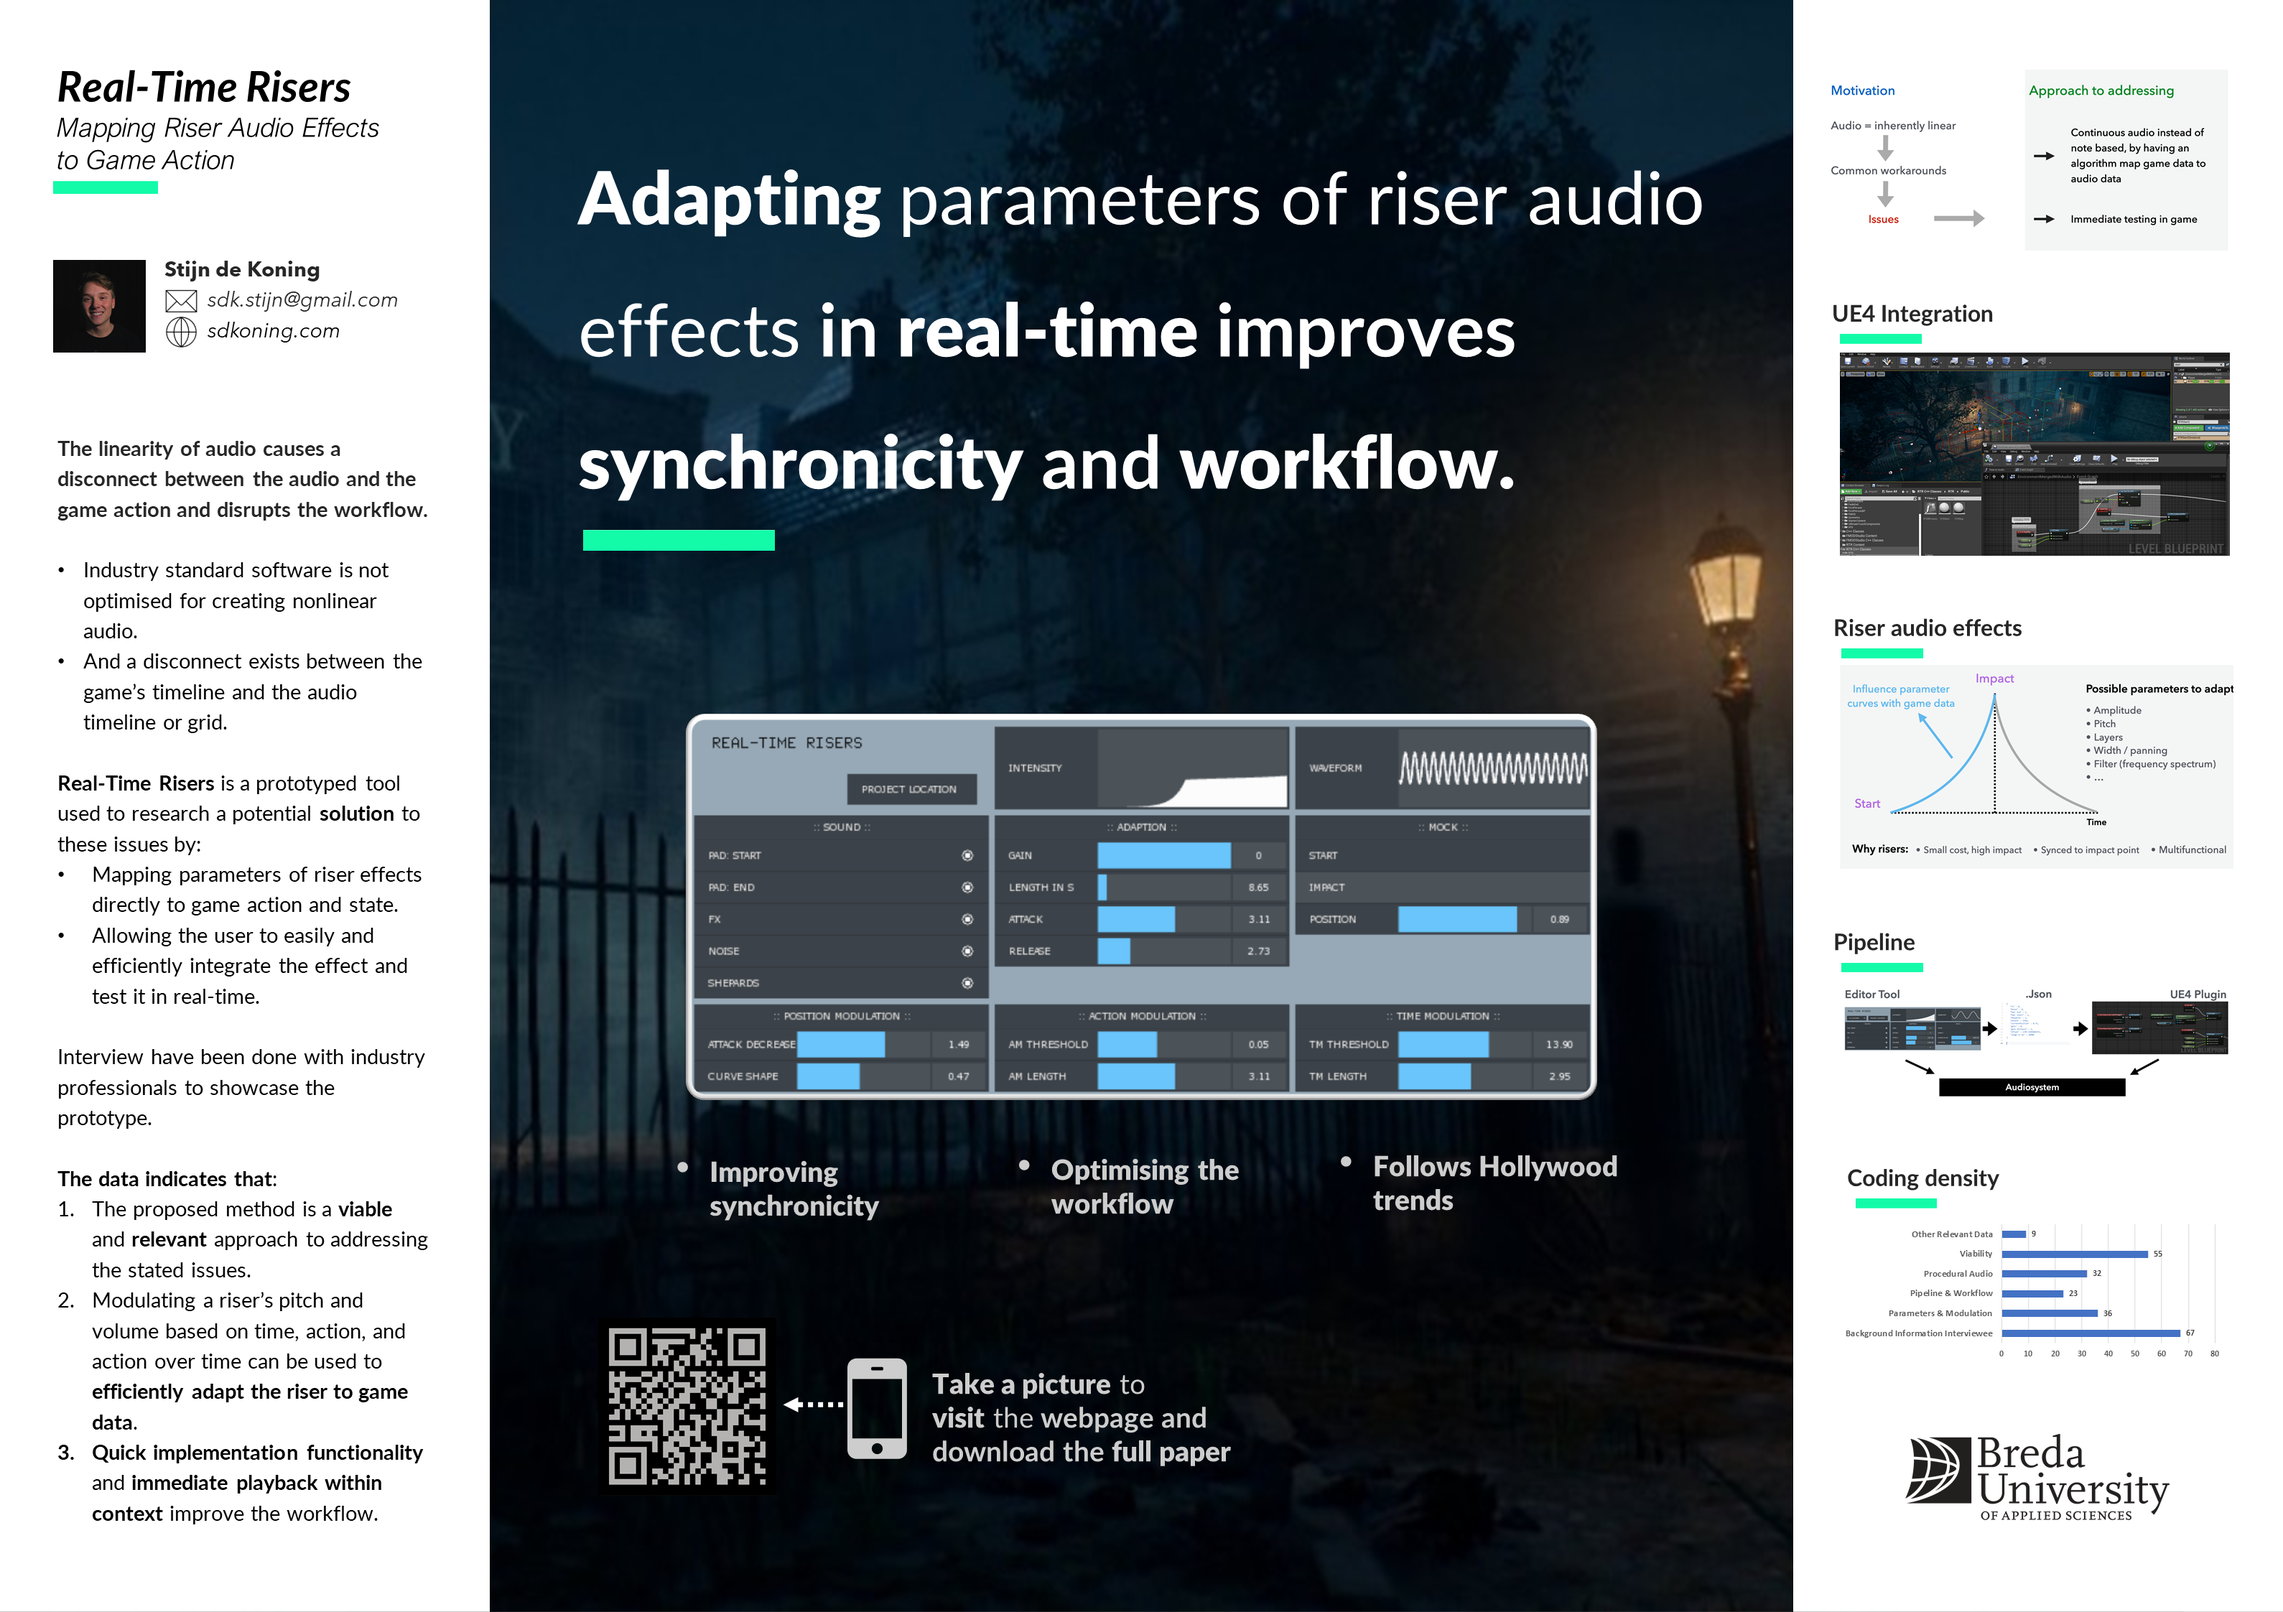
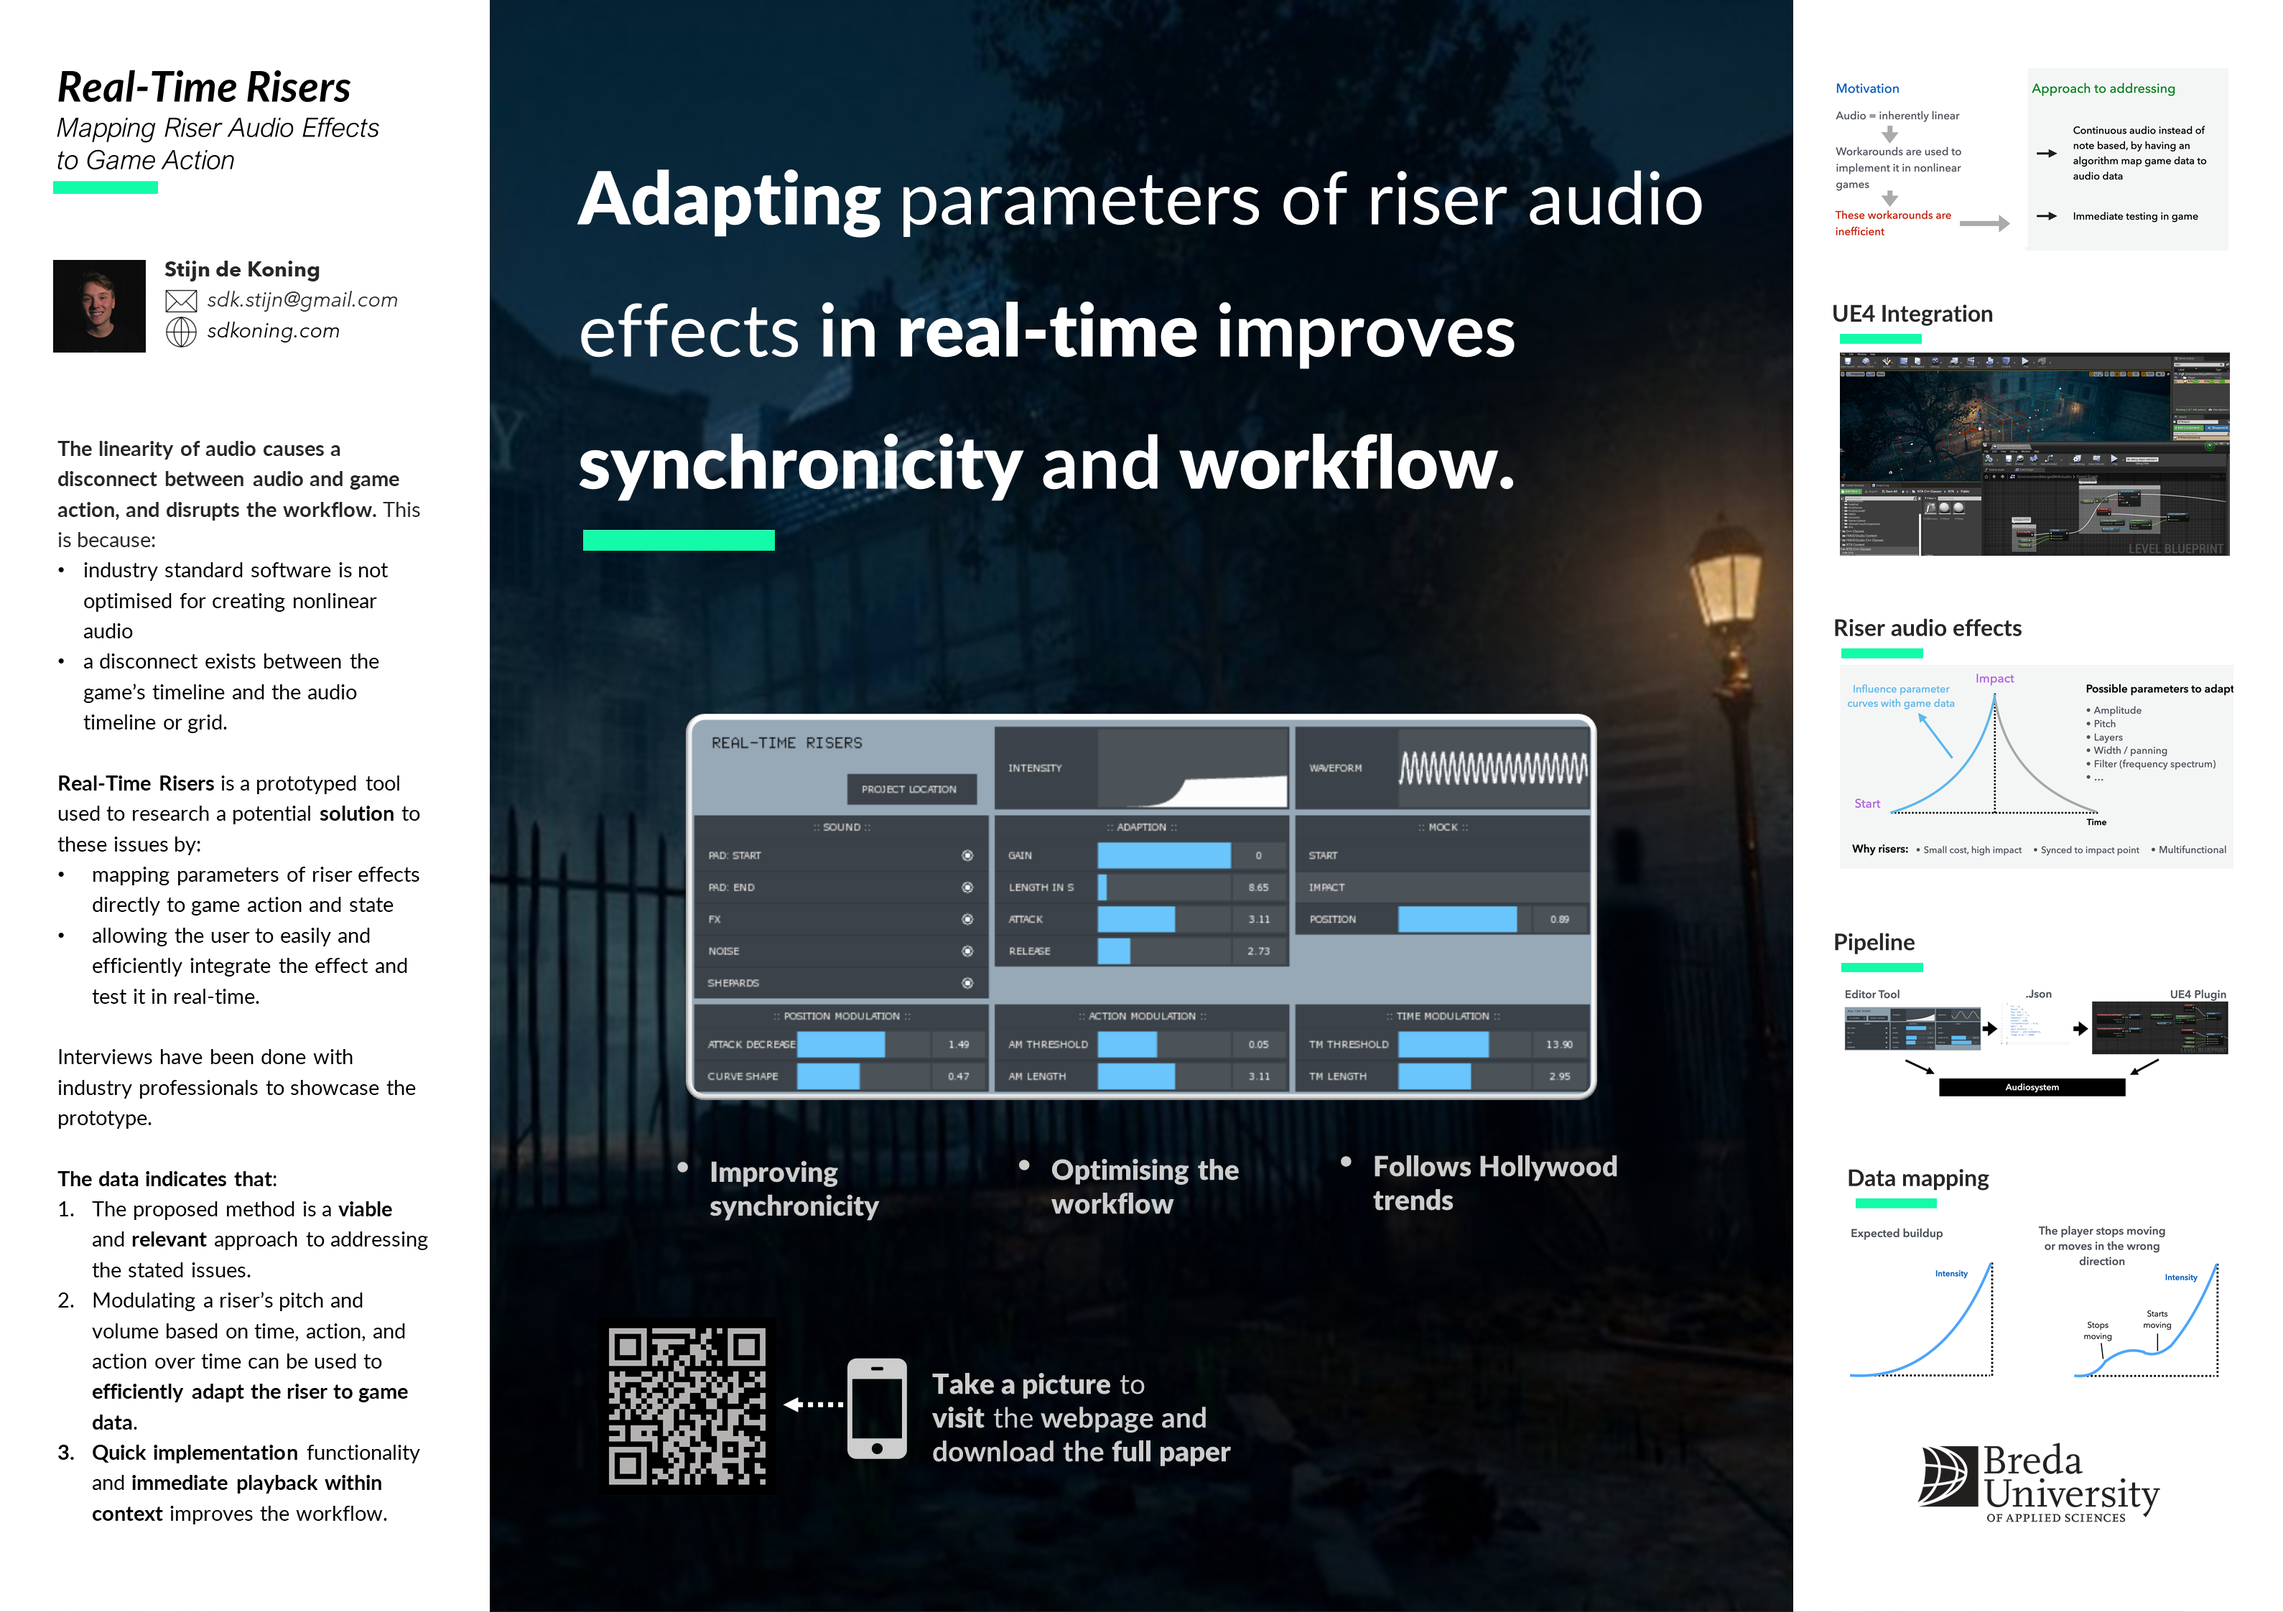
updated rtr page

diff --git a/PF/RTR.html b/PF/RTR.html
@@ -64,9 +64,10 @@
       <h1 class="w3-jumbo w3-text-black"><b>Real-Time Risers</b></h1>
       <h1 class="w3-xxxlarge textColor3"><b>A reactive game audio solution</b></h1>
       <p class="w3-text-black"><span class="w3-xlarge w3-text-black">
-        Adapting parameters riser audio effects in real time improves synchronicity and workflow. </span>
-        RTR is a prototype for an adaptive audio tool that allows the user design and implement a riser that adapts to game data in real-time. 
-        The tool has been developed for my master's research into adressing certain issues in the common game audio development pipeline.
+        Adapting parameters of riser audio effects in real-time  </span>
+        based on game action and events improves synchronicity and workflow.
+        RTR is a prototype tool that allows its users to design and efficiently implement a riser that adapts to game data in real-time. 
+        The tool has been developed for my master's research into: Real-Time Procedural Risers in Games: Mapping Riser Audio Effects to Game Data.
       </p>
       <button class="w3-button w3-light-grey w3-padding-large w3-section w3-hide-small">
         <a href=""><i class="fa fa-book"></i> Download full research </a>
@@ -123,7 +124,7 @@
     <div class="w3-col l8 m6">
       <h1 class="w3-jumbo w3-text-black"><b>Pipeline</b></h1>
       <p class="w3-text-black"><span class="w3-xlarge w3-text-black"> A fast and optimised workflow  </span>
-        allows the user to make changes to the riser and immediatly hear the riser back in game.
+        allows the user to make changes to the riser and immediatly hear the riser back in-game.
         The tool is designed similarly to standard audio middleware, using a seperate studio solution and engine integration plugin
         that are build on the same low-level audio system. This way the tool can be easily integrated in any engine and is not restricted in any way.
       </p>
@@ -137,8 +138,10 @@
     <div class="w3-col l8 m6">
       <h1 class="w3-jumbo"><b>Risers</b></h1>
       <p class="w3-text-darkgrey"><span class="w3-xlarge w3-text-darkgrey">Risers are efficient low-cost audio effects. </span> 
-        However, because risers are synchronised to their start as well as their point of impact, they are difficult to implement in an adaptive system. 
-        Risers generally consist of three dynamic elements: the attack, the impact, and the release. 
+        But because risers are synchronised to their start as well as their point of impact, they are difficult to implement in an adaptive system. 
+        , risers generally consist of three dynamic elements: the attack, the impact, and the release. 
+        Most emphasis is put on the attack as risers are often used to build up to something. 
+        The release serves to build the audio down so that it does not abruptly stop.  
         By modulating the audio data in between the start and impact, the riser can go on for a longer or shorter amount of time.
          </p>
     </div>
@@ -159,12 +162,11 @@
     </div>
     <div class="w3-col l8 m6">
       <h1 class="w3-jumbo w3-text-black"><b>Integration</b></h1>
-      <p class="w3-text-black"><span class="w3-xlarge w3-text-black"> Easy-to-use and quick implementation. </span> 
-        An Unreal Engine 4 plugin with blueprint nodes and actors is provided. 
-        The actors serve as the start and stop location of the riser and can be placed anywhere in the level. 
-        This way implementing the riser will only take a few seconds.
+      <p class="w3-text-black"><span class="w3-xlarge w3-text-black"> An Unreal Engine 4 plugin allows for quick and efficient implementaiton.  </span> 
+        For the integration in UE4, two different methods have been developed.
+        First, two actors have been developed, one for the start and one for the impact position of the riser. 
+        By dragging these to their desired locations in the level, the riser can be quickly and efficiently implemented.
         Alternatively, blueprints can be used, for example when the start and/or stop position are not physical locations.
-
       </p>
     </div>
   </div>
